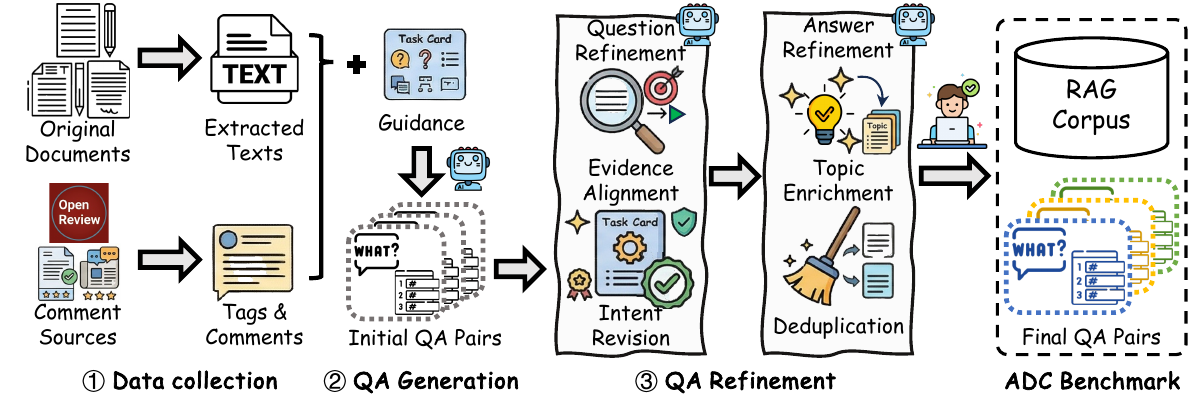
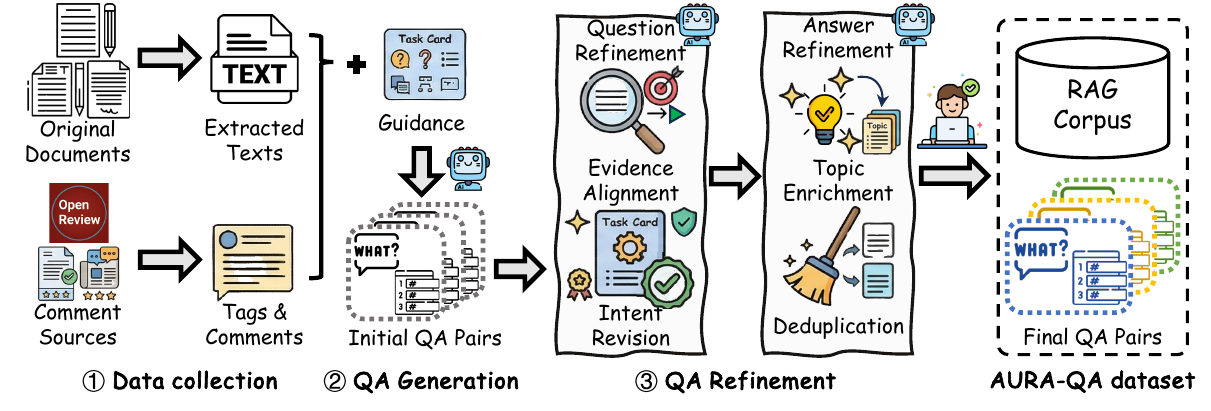
Rename benchmark to AURA-QA

diff --git a/README.md b/README.md
@@ -1,36 +1,36 @@
 <div align="center">
 
-# ADC: Abstractive Document Comprehension
+# AURA-QA: Abstract qUery answering with Reference-based Assessment
 
 <p><em>A benchmark for document-level, synthesis-heavy question answering in RAG systems.</em></p>
 
 [![Paper](https://img.shields.io/badge/%F0%9F%93%84%20Paper-arXiv%20coming%20soon-b31b1b?style=flat-square)](#)
-[![Dataset](https://img.shields.io/badge/%F0%9F%A4%97%20Dataset-Hugging%20Face-f9ab00?style=flat-square)](https://huggingface.co/datasets/sam234990/ADC)
+[![Dataset](https://img.shields.io/badge/%F0%9F%A4%97%20Dataset-Hugging%20Face-f9ab00?style=flat-square)](https://huggingface.co/datasets/sam234990/AURA-QA)
 [![Webpage](https://img.shields.io/badge/%F0%9F%8C%90%20Webpage-Project%20Page-2563eb?style=flat-square)](https://xinyangsally.github.io/adc-benchmark/)
 
 </div>
 
-> ADC evaluates whether a RAG system can read long documents, organize evidence, and produce grounded abstractive answers, rather than only retrieve short facts.
+> AURA-QA, short for Abstract qUery answering with Reference-based Assessment, evaluates whether a RAG system can read long documents, organize evidence, and produce grounded abstractive answers with reference-based assessment, rather than only retrieve short facts.
 
 <p align="center">
-  <img src="figures/alpha.png" alt="ADC overview: topic-set evaluation versus head-to-head evaluation" width="96%">
+  <img src="figures/alpha.png" alt="AURA-QA overview: topic-set evaluation versus head-to-head evaluation" width="96%">
 </p>
 
-<p align="center"><em>Overview of ADC and its topic-set-based evaluation paradigm.</em></p>
+<p align="center"><em>Overview of AURA-QA and its topic-set-based evaluation paradigm.</em></p>
 
-## Why ADC?
+## Why AURA-QA?
 
 Many RAG benchmarks are still dominated by extractive or short-answer QA.
-ADC is designed for a harder setting: answers that require summarization, comparison, enumeration, and temporal synthesis over full documents.
+AURA-QA is designed for a harder setting: answers that require summarization, comparison, enumeration, and temporal synthesis over full documents.
 
-ADC focuses on two gaps:
+AURA-QA focuses on two gaps:
 
 - **Benchmark gap**: existing datasets rarely provide stable, human-curated abstractive references for document-level QA.
 - **Evaluation gap**: head-to-head judging is expensive, hard to scale, and often weak at explaining *why* one answer is better.
 
-## What ADC Covers
+## What AURA-QA Covers
 
-ADC spans academic papers and news documents, and organizes questions into five abstractive task families:
+AURA-QA spans academic papers and news documents, and organizes questions into five abstractive task families:
 
 - **Single-Sum**: summarize a single document into a compact, faithful answer
 - **Pair-Comp**: compare two documents, methods, entities, or events
@@ -45,14 +45,14 @@ To study retrieval difficulty, each question is evaluated under three retrieval 
 - **Hard**: a distractor-heavy task-level corpus
 
 <p align="center">
-  <img src="figures/workflow.png" alt="ADC workflow: data collection, QA generation, and QA refinement" width="96%">
+  <img src="figures/workflow.png" alt="AURA-QA workflow: data collection, QA generation, and QA refinement" width="96%">
 </p>
 
-<p align="center"><em>ADC construction workflow: data collection, QA generation, and QA refinement.</em></p>
+<p align="center"><em>AURA-QA construction workflow: data collection, QA generation, and QA refinement.</em></p>
 
 ## Reference-Based Evaluation
 
-ADC pairs each question with a curated reference topic set and a hallucination set.
+AURA-QA pairs each question with a curated reference topic set and a hallucination set.
 Instead of relying only on pairwise preference judgments, we evaluate whether a model:
 
 - covers the key reference topics
@@ -74,7 +74,7 @@ python eval_adc/eval_adc.py \
 
 ## Dataset Snapshot
 
-The current paper-side statistics of ADC are summarized below.
+The current paper-side statistics of AURA-QA are summarized below.
 This snapshot follows the five question categories used in the benchmark.
 `Tok.` denotes tokens, and `#C` denotes middle-level clusters.
 
@@ -87,7 +87,7 @@ This snapshot follows the five question categories used in the benchmark.
 | Temp | 156 | 1,579 | 1,434,193 | 120,514 | 7 |
 | **Total** | **869** | **2,096** | **16,080,106** | **347,963** | **54** |
 
-ADC is designed to stress both abstractive answer quality and retrieval scope under increasingly challenging corpus settings.
+AURA-QA is designed to stress both abstractive answer quality and retrieval scope under increasingly challenging corpus settings.
 
 ## Repository Status
 
@@ -95,7 +95,7 @@ This repository is still being organized.
 We are gradually cleaning up and releasing:
 
 - benchmark data and metadata
-- evaluation scripts for ADC
+- evaluation scripts for AURA-QA
 - reproducible experiment pipelines
 - documentation for running baselines
 
@@ -104,10 +104,10 @@ At the moment, the repository includes dataset construction scripts, refinement 
 ## Repository Layout
 
 ```text
-ADC/
+AURA-QA/
 ├── Generate/      # question generation and data construction scripts
 ├── Refine/        # question/answer refinement and evidence alignment code
-├── eval_adc/      # topic-set-based ADC evaluation scripts
+├── eval_adc/      # topic-set-based AURA-QA evaluation scripts
 ├── eval_h2h/      # head-to-head evaluation utilities
 ├── figures/       # figures used in the paper and README
 ├── notebooks/     # exploratory analysis and helper notebooks
@@ -117,16 +117,16 @@ ADC/
 ## Planned Links
 
 - `arXiv`: [TBD]
-- `Hugging Face dataset`: [sam234990/ADC](https://huggingface.co/datasets/sam234990/ADC)
+- `Hugging Face dataset`: [sam234990/AURA-QA](https://huggingface.co/datasets/sam234990/AURA-QA)
 - `Webpage`: [adc-benchmark](https://xinyangsally.github.io/adc-benchmark/)
 
 ## Citation
 
-If you find ADC useful, please cite our paper once it is released.
+If you find AURA-QA useful, please cite our paper once it is released.
 
 ```bibtex
-@article{adc_benchmark_2026,
-  title   = {Abstractive Document Comprehension: A Comprehensive Benchmark for RAG-based Question Answering},
+@article{aura_qa_2026,
+  title   = {AURA-QA: A Benchmark for Abstract Query Answering over Documents},
   author  = {TBD},
   journal = {arXiv},
   year    = {2026}